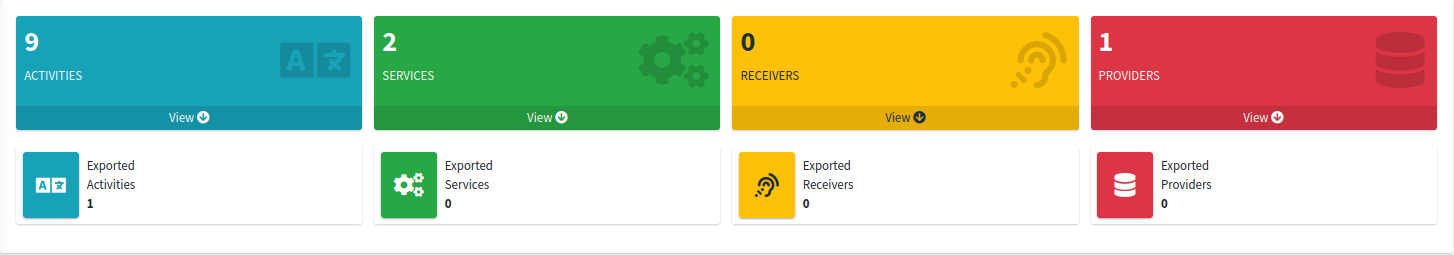
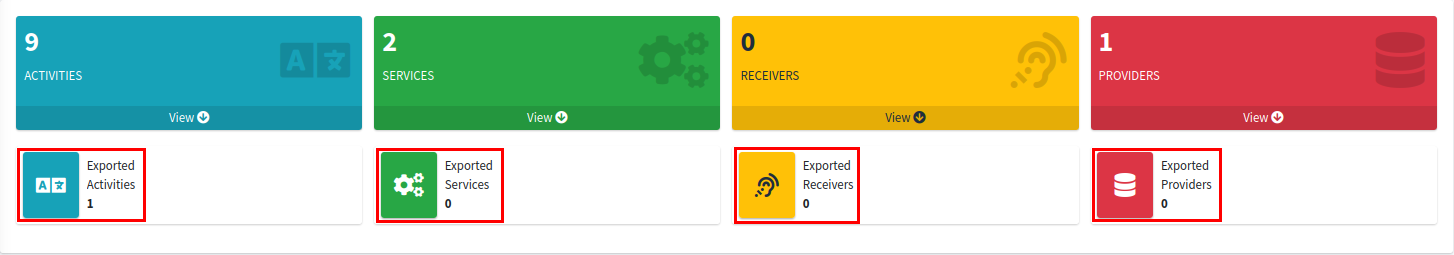
Updates

diff --git a/Labs/LAB_03_Static_Analysis/instructions.md b/Labs/LAB_03_Static_Analysis/instructions.md
@@ -6,6 +6,8 @@ REMEMBER TO POWER OFF YOUR CORELLIUM DEVICE WHEN NOT WORKING ON LABS!!!!
 
 Corellium WILL CHARGE YOU!!!!!
 
+***
+
 In this lab we will be using MobSF to analyze an APK. You can also use the app uploaded for analysis in the "APK_Extraction" lab, or look at one of the pre-generated reports in the course materials section. As an example we will be using the F-Droid app. You are encouraged to repeat this analysis using TheHackerBank app later in the class. Your goal is to analyze ther results and note down anything that stands out for later use.
 
 Let's load up an app and look at it.
@@ -26,24 +28,29 @@ Once the scan finishes, you should see the Static Report of the scan:
 
 ![](images/scanfinished.png)
 
-The first thing worth paying special attention to is the overview of the app components.
-<!--![](images/exported.png)-->
+The first thing worth paying special attention to is the overview of the app components. Specifically, we want to look at the "exported" activities, services, receivers, and providers.
 
-<img width="1265" alt="Screenshot 2023-12-30 at 11 59 46 AM" src="https://github.com/deruke/AndroidLabs/assets/22796374/023ac466-ccd5-4b5a-9d7e-4d32d51595e3">
+![](images/componentoverview.png)
 
-Specifically, the "exported" activities, services, receivers, and providers. The exported keyboard means they can be launched from outside the app and may present additional entry points or other attack vectors. We can further analyze the exported components by looking at the manifest file, and if necessary the decompiled code.
+ The term "exported" means that they can be launched from outside the app itself, which may present additional entry points or other attack vectors. 
+ 
+ We can further analyze the exported components by looking at the manifest file, and if necessary the decompiled code.
 
 ![](images/decomp.png) 
-Here you can download the decompiled java, download the smali, (smali is the disassembled version of the code)
 
-### Permissions ###
+Here you can download the decompiled java and smali code, which is the disassembled version of the code.
+
+## Permissions
+
 Permissions are gathered from the android manifest file. Each permission is marked with a status, most commonly "dangerous" or "normal". 
 <!--![](images/permissions.png)-->
 
 <img width="1415" alt="Screenshot 2023-12-30 at 12 00 58 PM" src="https://github.com/deruke/AndroidLabs/assets/22796374/e62582bc-1d17-48cf-b121-3998d41b8663">
 
 Whether a permission is actually dangerous depends on the context of the application, and whether they make sense given the functionallity of the app. Permissions are not the most useful thing for a tester, but could be critical for malware analysis.
-### Recon ###
+
+## Recon
+
 The reconnaissance section is especially useful for gaining a better overall understanding of the application. First lets look at URLs. We can use this to see where the application is making connections to, potentially for malware analysis or testing our access outside of the app.
 
 <!--![](images/urls.png)-->
@@ -58,8 +65,8 @@ MobSF extracts potentially sensitive values from this file and displays them in 
 <!--![](images/secrets.png)-->
 <img width="485" alt="Screenshot 2023-12-30 at 12 05 39 PM" src="https://github.com/deruke/AndroidLabs/assets/22796374/057e6fa8-ae56-4e12-9b2d-662ecb0a7f12">
 
+## API
 
-### API ###
 This Section displays the android APIs that the app uses. This section contains a lot of noise, however it can be useful, especially when combined with the search feature.
 
 <!--![](images/API.png)-->
@@ -69,14 +76,15 @@ This Section displays the android APIs that the app uses. This section contains 
 
 For example, the screenshot above shows us everywhere the command execution API is used. The files displayed are clickable and will show you the API usage location in code.
 
-### Browsable Activities ###
+## Browsable Activities
+
 MobSF Extracts a list of "Browsable Activities". These are activities that can be triggered by a web browser to display data referenced by a link. These are worth attention since they can sometimes be leveraged by an attacker to perform web based or intent based attacks.
 
 <!--![](images/browsableactivities.png)-->
 
 <img width="1429" alt="Screenshot 2023-12-30 at 12 07 48 PM" src="https://github.com/deruke/AndroidLabs/assets/22796374/3e9bc03d-5a9d-4011-8370-c3bbaa14e926">
 
-### Certificate Analysis ###
+## Certificate Analysis
 
 <!--![](images/certs.png)-->
 

diff --git a/Labs/LAB_02_APK_Extraction/instructions.md b/Labs/LAB_02_APK_Extraction/instructions.md
@@ -6,6 +6,8 @@ REMEMBER TO POWER OFF YOUR CORELLIUM DEVICE WHEN NOT WORKING ON LABS!!!!
 
 Corellium WILL CHARGE YOU!!!!!
 
+***
+
 Before getting started, lets turn on our Corellium Android device:
 
 ![](images/poweron.png)
@@ -32,7 +34,6 @@ Now run the following to connect to the local host:
 
 ![](images/2023-01-13-15-09-23.png)
 
-***
 ## Downloading the APK
 
 Now that we are connected, the first thing you will need is the application ID of the app we are testing. We will be analyzing F-Droid. On the Corellium interface click on the “Apps” tab and start typing the name of the application. The application ID is found directly under the application name as shown below. 
@@ -54,6 +55,7 @@ Next, run the final command:
 ![](images/adbpullpath.png)
 
 ## Running MobSF
+
 [MobSF](https://mobsf.github.io/docs/#/) is already installed on your VM. To run the docker container, run this command:
 
 <pre>sudo docker run -it --rm -p 8000:8000 opensecurity/mobile-security-framework-mobsf:latest</pre>
